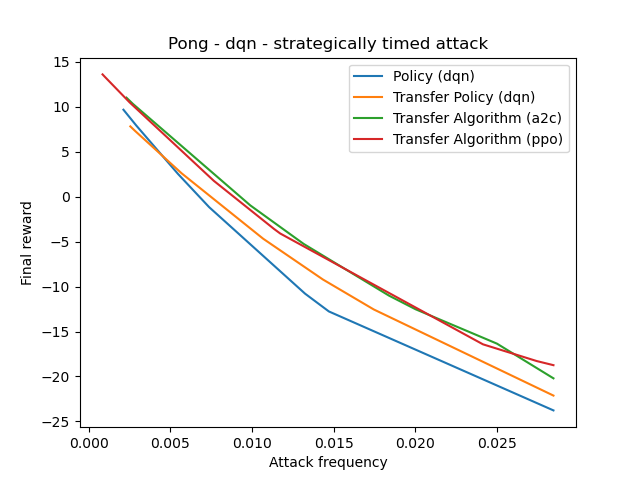
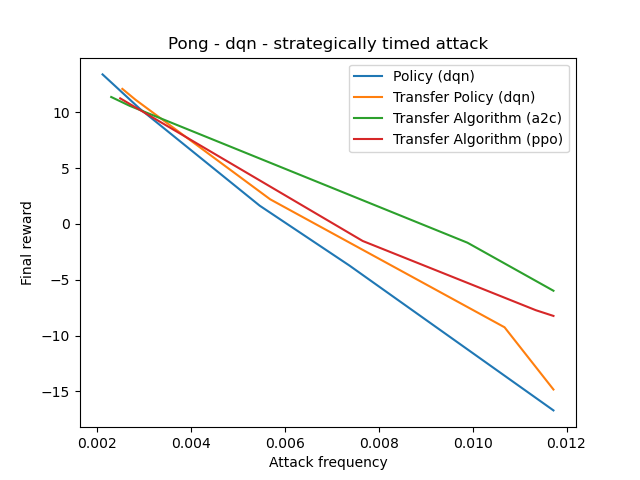
corrected some charts

diff --git a/make_chart_rew.py b/make_chart_rew.py
@@ -1,0 +1,130 @@
+import matplotlib.pyplot as plt
+import numpy as np
+import sys
+
+
+def sort_pivot(list1, list2):
+    """Sort list1, then sort list 2 according to the permutation of list1"""
+    ind = np.argsort(list1)
+    list1 = np.take_along_axis(list1, ind, axis=0)
+    list2 = np.take_along_axis(list2, ind, axis=0)
+    return list1, list2
+
+
+def smooth(list1, list2, smoothing=4):
+    """Smooth list2"""
+    poly = np.polyfit(list1, list2, smoothing)
+    list_2 = np.poly1d(poly)(list1)
+    return list_2
+
+
+def limit_lists(limit_freq, x_lists, y_lists):
+    """All the lists in x_lists will be in the same range of list1"""
+    n_lists = len(x_lists)
+    for i in range(n_lists):
+        x_lists[i] = ([l for l in x_lists[i] if l <= limit_freq])
+        temp = y_lists[i][-1]
+        y_lists[i] = y_lists[i][:len(x_lists[i])]
+        y_lists[i] = np.concatenate([y_lists[i], [temp]])
+        x_lists[i] = np.concatenate([x_lists[i], [limit_freq]])
+    return x_lists, y_lists
+
+
+if __name__ == '__main__':
+
+    # Data
+    task = "Pong"  # Pong
+    model = "dqn"
+    n_lines = 4
+    transfer_model = "dqn"
+    transfer_model_2 = "a2c"
+    transfer_model_3 = "ppo"
+    img_attack = "fgm_eps_0.1"  # fgm_eps_0.05, perfect_attack, fgm_eps_0.3
+    rl_attack = "strategically_timed_attack"  # strategically_timed_attack, uniform_attack, critical_strategy_attack, critical_point_attack, adversarial_policy_attack
+    has_atk_freq = 1
+    has_n_attacks = 0
+    smoothing = 3
+    limit_freq = 0.015
+    min_freq = 0.002
+    first_equal = False  # make first reward same as first line for all lines
+    input_file = [
+        "log/" + task + "NoFrameskip-v4/" + model + "/" + rl_attack + "_" + img_attack + ".npy",
+        "log/" + task + "NoFrameskip-v4/" + model + "/" + rl_attack + "_" + img_attack + "_transf_" + transfer_model + ".npy",
+        "log/" + task + "NoFrameskip-v4/" + model + "/" + rl_attack + "_" + img_attack + "_transf_" + transfer_model_2 + ".npy",
+        "log/" + task + "NoFrameskip-v4/" + model + "/" + rl_attack + "_" + img_attack + "_transf_" + transfer_model_3 + ".npy",
+    ]
+
+    if n_lines is None:
+        n_lines = len(input_file)
+    else:
+        input_file = input_file[:n_lines]
+    atk_freq = []
+    n_attacks = []
+    rewards = []
+    for file in input_file:
+        with open(file, 'rb') as f:
+            atk_freq.append(np.load(f))
+            n_attacks.append(np.load(f))
+            rewards.append(np.load(f))
+
+    assert has_atk_freq or has_n_attacks
+    if has_atk_freq and has_n_attacks:
+        sys.exit(0)
+    if has_atk_freq:
+        x = atk_freq
+    elif has_n_attacks:
+        x = n_attacks
+
+    x1_lists = []
+    y1_lists = []
+    min_x, min_index = np.inf, 0
+    for i in range(n_lines):
+        x[i], rewards[i] = sort_pivot(x[i], rewards[i])
+        #print("Attack frequencies:", atk_freq[i])
+        #print("Rewards:", rewards[i])
+        #print("Number attacks:", n_attacks[i])
+        rewards[i] = smooth(x[i], rewards[i], smoothing=smoothing)
+
+        if limit_freq:
+            a = [(j, rewards[i][h]) for h, j in enumerate(x[i]) if j <= limit_freq]
+            rewards[i] = [e[1] for e in a]
+            x[i] = [e[0] for e in a]
+        if min_freq:
+            a = [(j, rewards[i][h]) for h, j in enumerate(x[i]) if j >= min_freq]
+            rewards[i] = [e[1] for e in a]
+            x[i] = [e[0] for e in a]
+
+
+        x1_lists.append(x[i])
+        y1_lists.append(rewards[i])
+        if i == n_lines-1 and x[i][-1] < min_x:
+            min_x = x[i][-1]
+            min_index = i
+        if first_equal:
+            rewards[i][0] = max(max(rewards[0]), max(rewards[1]), max(rewards[2]), max(rewards[3]))
+
+    x_lists, y_lists = limit_lists(min_x, x1_lists, y1_lists)
+    for i in range(0, n_lines):
+        x[i] = x_lists[i]
+        rewards[i] = y_lists[i]
+
+    plt.plot(x[0], rewards[0], label="Policy (" + model + ")")
+    if n_lines > 1:
+        plt.plot(x[1], rewards[1], label="Transfer Policy (" + transfer_model + ")")
+    if n_lines > 2:
+        plt.plot(x[2], rewards[2], label="Transfer Algorithm (" + transfer_model_2 + ")")
+    if n_lines > 3:
+        plt.plot(x[3], rewards[3], label="Transfer Algorithm (" + transfer_model_3 + ")")
+
+    plt.legend(loc='upper right')
+
+    # Add titles
+    rl_attack = rl_attack.replace("_", " ")
+    plt.title(task + " - " + model + " - " + rl_attack, loc='center')
+    if has_atk_freq:
+        plt.xlabel("Attack frequency")
+    if has_n_attacks:
+        plt.xlabel("Number of attacks")
+    plt.ylabel("Final reward")
+
+    plt.show()
